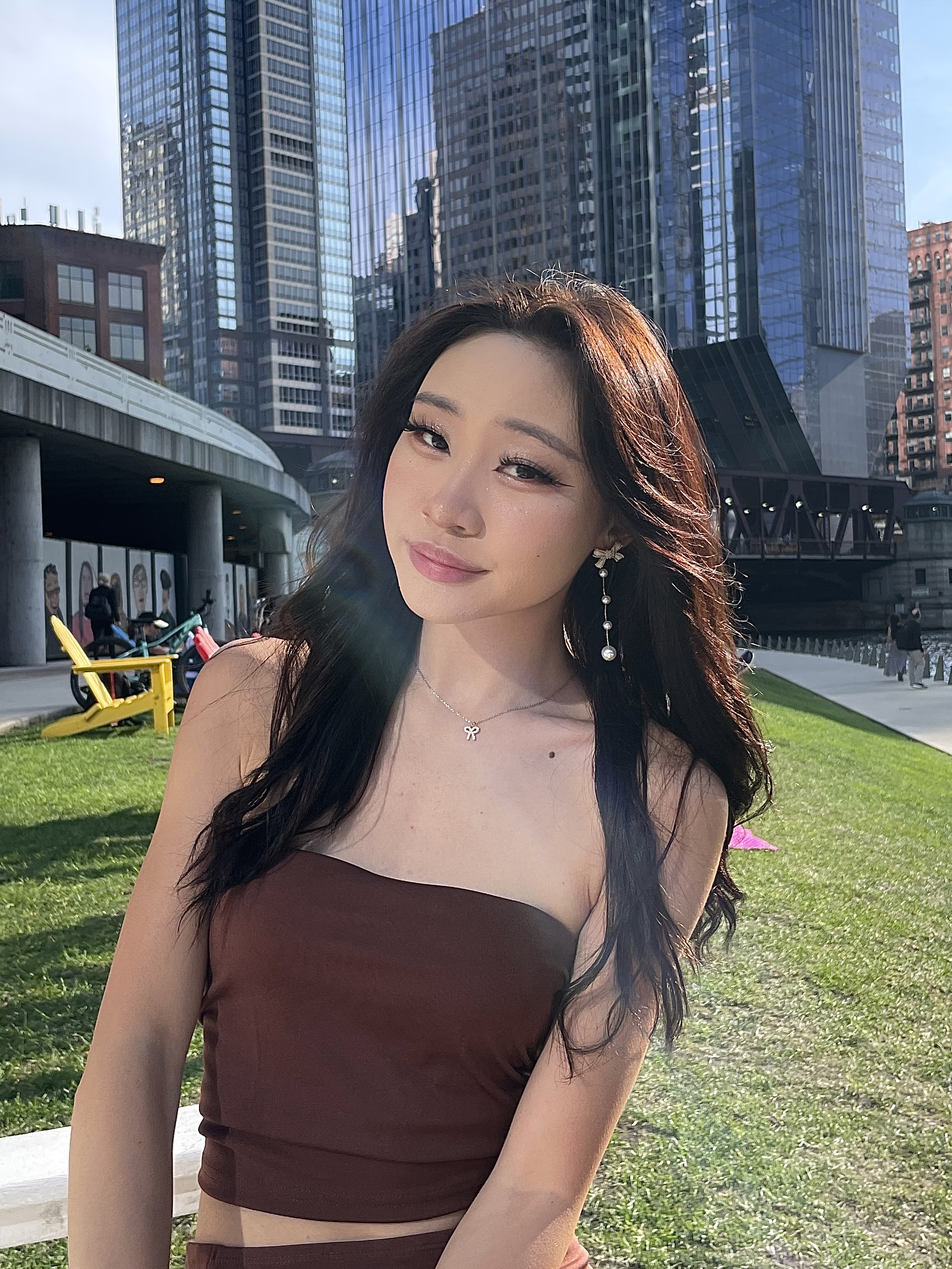
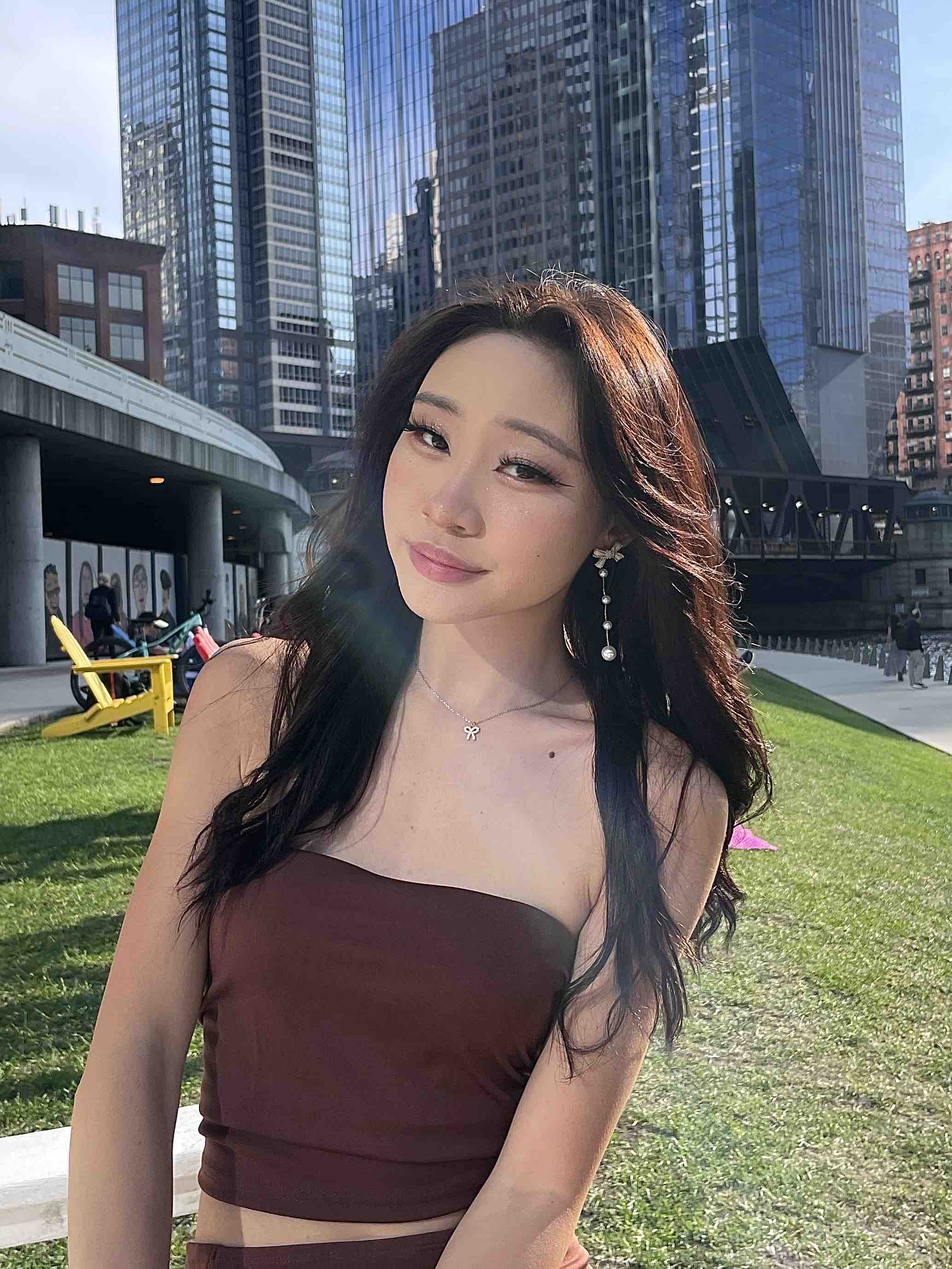
Lossless Image Compression

diff --git a/modules/TeamData.ts b/modules/TeamData.ts
@@ -62,7 +62,7 @@ export const data = [
                 name: "Timothy Gonzalez",
                 position: "API",
                 funFact: "I enjoy tacos",
-                photo: "/team/TimothyGonzalez.png",
+                photo: "/team/TimothyGonzalez.jpg",
                 emoji: "🙂"
             },
             {
@@ -204,8 +204,8 @@ export const data = [
                 name: "Daniel Chen",
                 position: "",
                 funFact: "I can do a cartwheel!",
-                photo: "/team/DanielChen.jpg",
-                emoji: "☹"
+                photo: "/team/DanielChen.jpeg",
+                emoji: "🙁"
             },
             {
                 name: "Diya Yunus",
@@ -239,7 +239,7 @@ export const data = [
                 name: "Sada Challa",
                 position: "",
                 funFact: "I lost my first kiss to a stingray.",
-                photo: "/team/SadaChalla.jpg",
+                photo: "/team/SadaChalla.jpeg",
                 emoji: "😟"
             },
             {
@@ -314,7 +314,7 @@ export const data = [
                 position: "",
                 funFact:
                     "i love bacon!",
-                photo: "/team/AmyBisalputra.jpg",
+                photo: "/team/AmyBisalputra.jpeg",
                 emoji: "🏄🏻♀"
             },
             {
